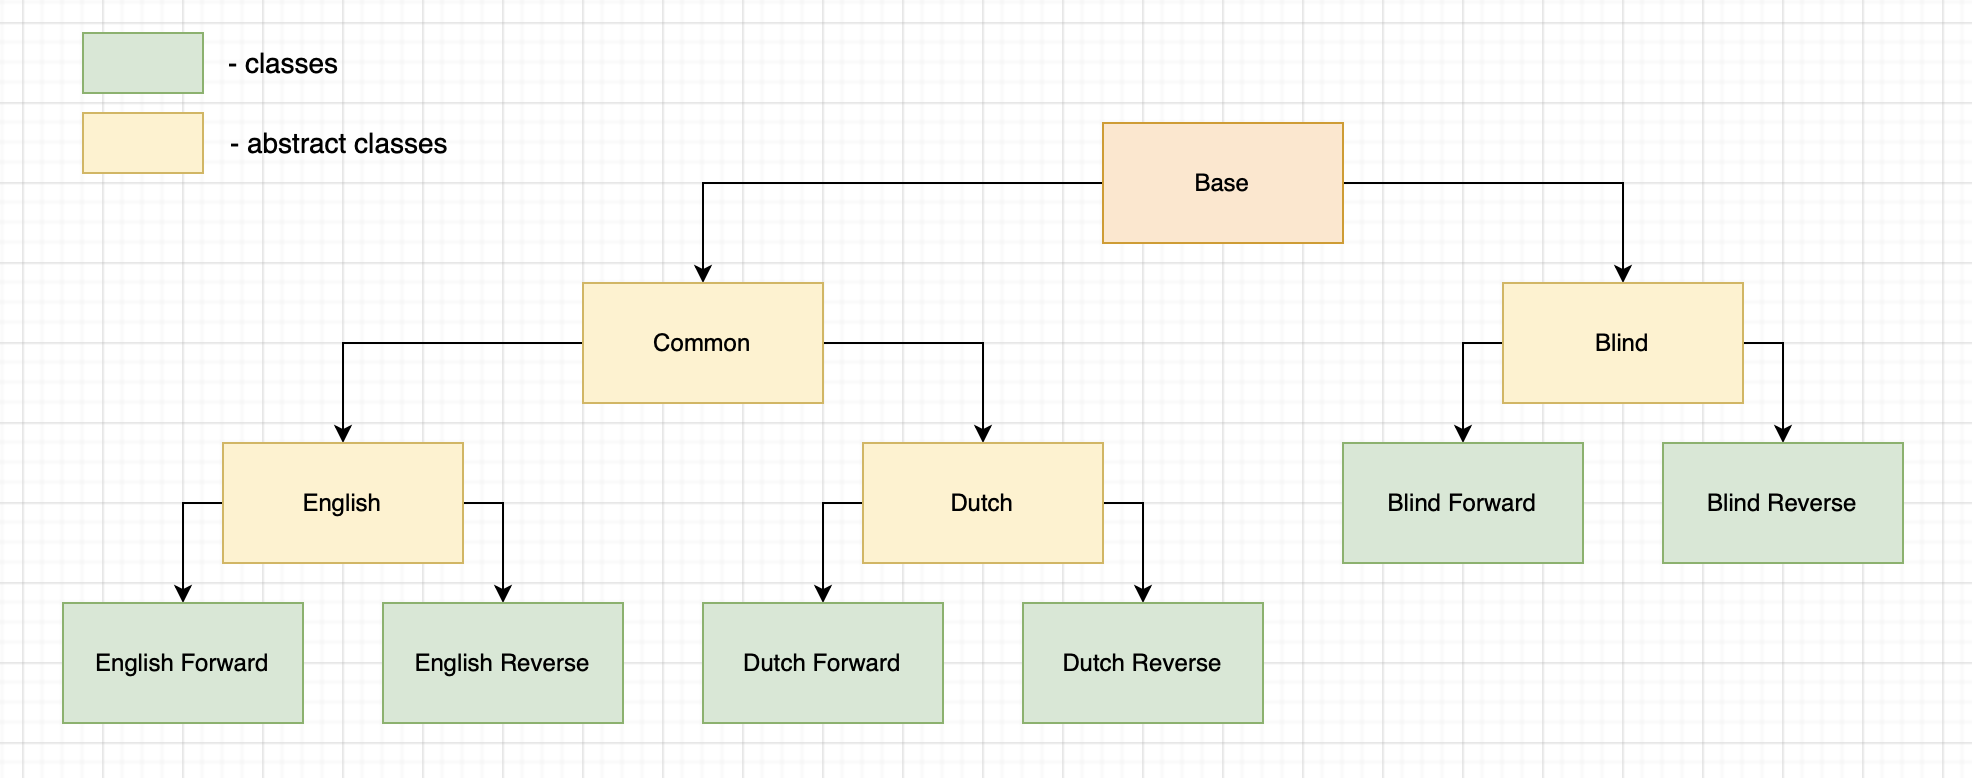
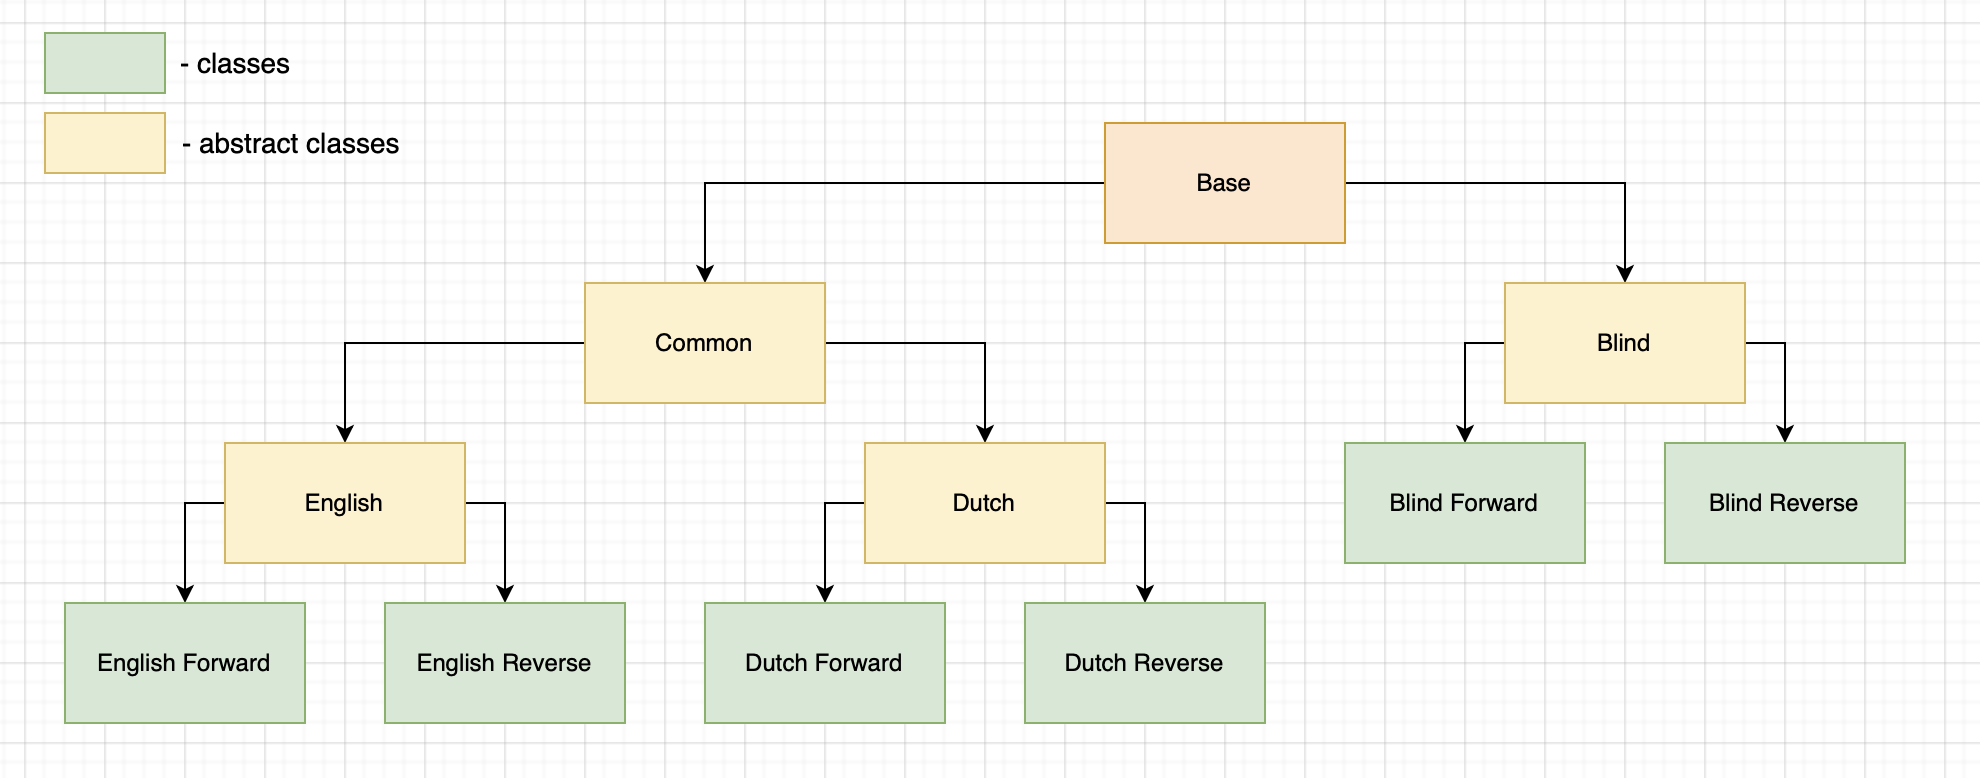
Add comments to code, improve readme

diff --git a/README.md b/README.md
@@ -44,8 +44,8 @@ make tests
 
 ## Structure
 
-Contract classes dependencies (as well as test classes) is displayed on this image.
-Easily to extend and add new auction types
+Contract classes dependencies (as well as test classes) are displayed on this image.
+Easy to extend and add new auction types
 
 ![structure.png](docs/structure.png)
 
